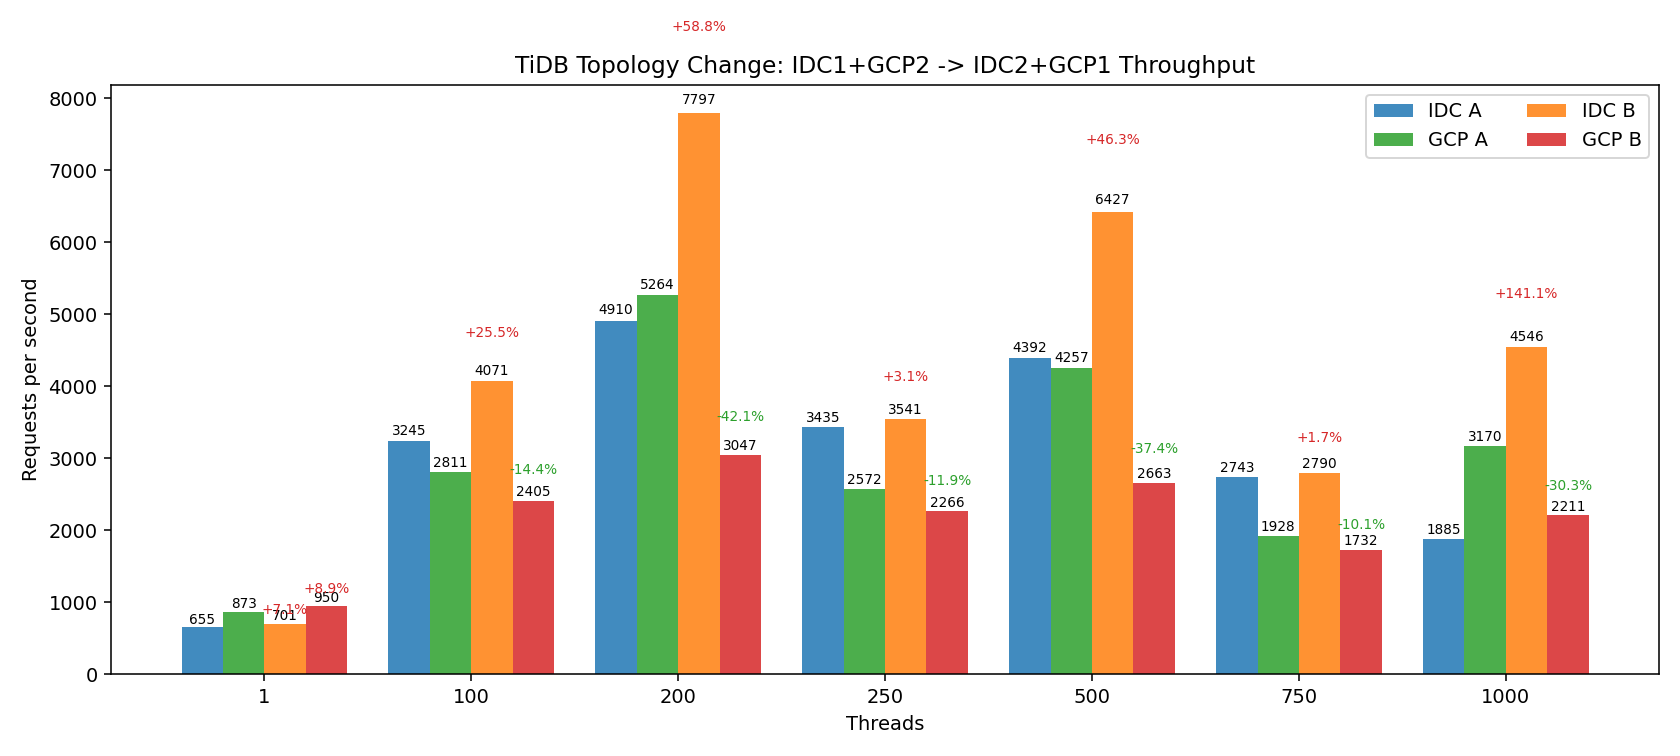
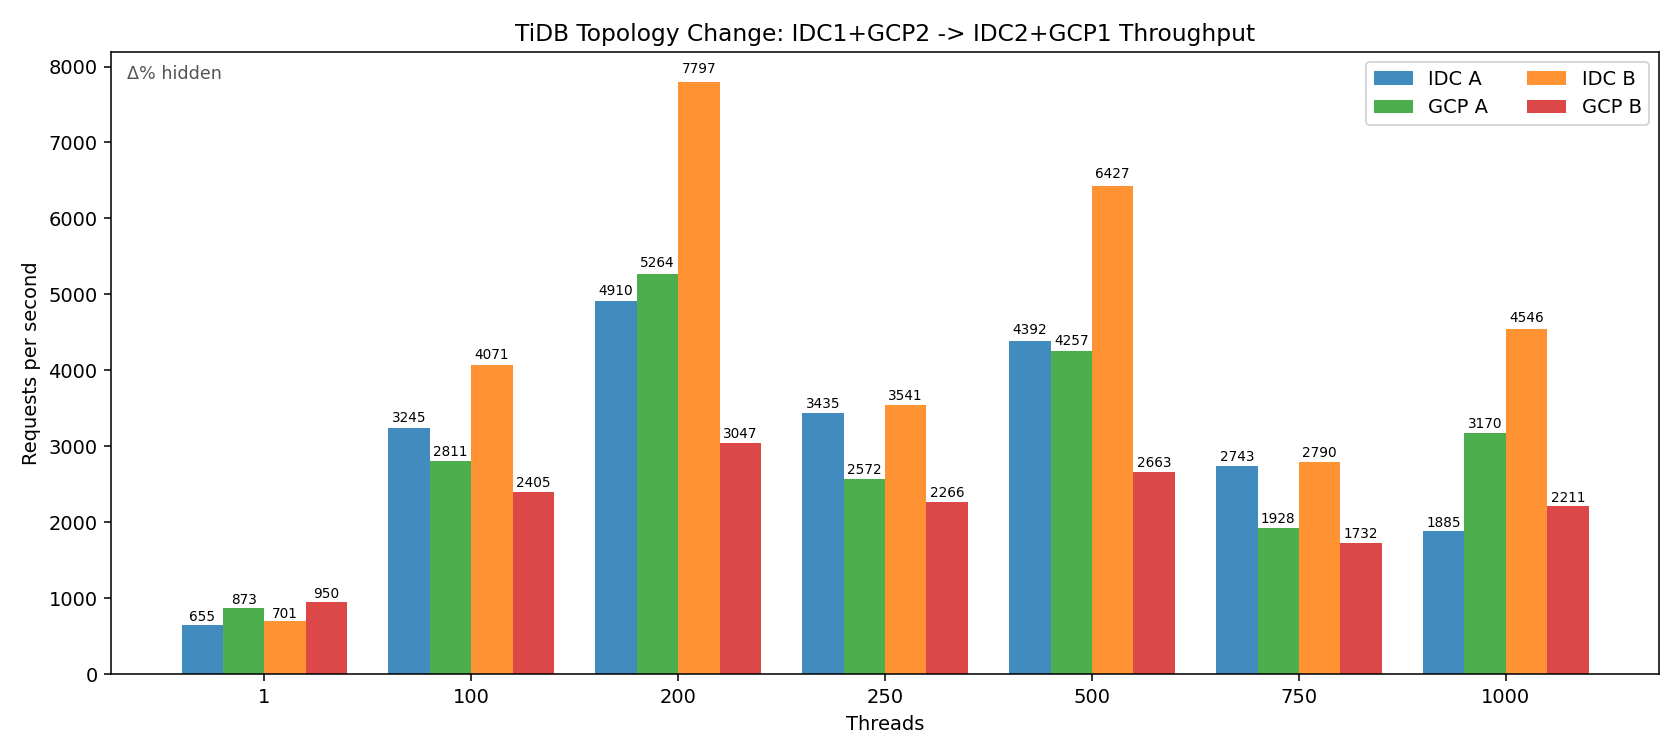
update

diff --git a/tidb/#7-5_#7-7_#8-5_#8-7_tidb_topology_diff.py b/tidb/#7-5_#7-7_#8-5_#8-7_tidb_topology_diff.py
@@ -2,67 +2,29 @@
 """
 Topology difference comparison for TiDB multi_thread_multi_conn RPS.
 
-Goal: Quantify impact of changing cross-line topology from:
-  Topology A (IDC * 1 + GCP * 2)  -> datasets #7-5 (IDC node), #7-7 (GCP node)
-  to
-  Topology B (IDC * 2 + GCP * 1)  -> datasets #8-5 (IDC node), #8-7 (GCP node)
+(Updated) 預設不顯示百分比；若要顯示需加參數：
+  --show-delta-columns   顯示百分比欄位
+  --show-delta-annot     圖上顯示百分比標註
 
-For each thread count, compute:
-  - IDC_A_RPS, IDC_B_RPS, ΔIDC_B_vs_A%
-  - GCP_A_RPS, GCP_B_RPS, ΔGCP_B_vs_A%
-  - IDC/GCP ratio for A & B, plus Δ(IDC/GCP) shift (how relative balance changed)
-
-Output:
-  - Console table
-  - Traditional Chinese summary (plots in English only)
-  - PNG grouped bar chart (4 bars / thread: IDC_A, GCP_A, IDC_B, GCP_B)
-    * Annotate only the B (new topology) bars with Δ% vs A of same region.
-
-File : #7-5_#7-7_#8-5_#8-7_tidb_topology_diff.py
-PNG  : #7-5_#7-7_#8-5_#8-7_tidb_topology_diff.png
+原百分比定義保持不變。
 """
 from __future__ import annotations
+import argparse
 
 # Topology A (IDC *1 + GCP *2)
 IDC_A = [
-    (1,    655.42),
-    (100, 3245.01),
-    (200, 4910.52),
-    (250, 3435.43),
-    (500, 4392.55),
-    (750, 2743.21),
-    (1000,1885.80),
+    (1,    655.42), (100, 3245.01), (200, 4910.52), (250, 3435.43), (500, 4392.55), (750, 2743.21), (1000,1885.80),
 ]
 GCP_A = [
-    (1,    873.23),
-    (100, 2811.40),
-    (200, 5264.86),
-    (250, 2572.56),
-    (500, 4257.80),
-    (750, 1928.54),
-    (1000,3170.67),
+    (1,    873.23), (100, 2811.40), (200, 5264.86), (250, 2572.56), (500, 4257.80), (750, 1928.54), (1000,3170.67),
 ]
-
 # Topology B (IDC *2 + GCP *1)
 IDC_B = [
-    (1,    701.65),
-    (100, 4071.64),
-    (200, 7797.52),
-    (250, 3541.41),
-    (500, 6427.14),
-    (750, 2790.56),
-    (1000,4546.69),
+    (1,    701.65), (100, 4071.64), (200, 7797.52), (250, 3541.41), (500, 6427.14), (750, 2790.56), (1000,4546.69),
 ]
 GCP_B = [
-    (1,    950.96),
-    (100, 2405.80),
-    (200, 3047.46),
-    (250, 2266.70),
-    (500, 2663.84),
-    (750, 1732.99),
-    (1000,2211.28),
+    (1,    950.96), (100, 2405.80), (200, 3047.46), (250, 2266.70), (500, 2663.84), (750, 1732.99), (1000,2211.28),
 ]
-
 PNG_NAME = "#7-5_#7-7_#8-5_#8-7_tidb_topology_diff.png"
 
 
@@ -88,82 +50,61 @@ def build():
             ga, gb, pct(gb, ga),
             ia/ga if ga else 0.0,
             ib/gb if gb else 0.0,
-            pct( (ib/gb) if gb else 0.0, (ia/ga) if ga else 0.0 ) if ga and gb else 0.0,
+            pct((ib/gb) if gb else 0.0, (ia/ga) if ga else 0.0) if ga and gb else 0.0,
         ))
     return rows
 
 
-def table(rows):
-    headers = [
-        "Threads",
-        "IDC_A","IDC_B","ΔIDC_B_vs_A%",
-        "GCP_A","GCP_B","ΔGCP_B_vs_A%",
-        "IDC_A/GCP_A","IDC_B/GCP_B","Δ(IDC/GCP)%",
-    ]
+def table(rows, show_delta_columns: bool = False):  # default False now
+    if show_delta_columns:
+        headers = ["Threads","IDC_A","IDC_B","ΔIDC_B_vs_A%","GCP_A","GCP_B","ΔGCP_B_vs_A%","IDC_A/GCP_A","IDC_B/GCP_B","Δ(IDC/GCP)%"]
+    else:
+        headers = ["Threads","IDC_A","IDC_B","GCP_A","GCP_B","IDC_A/GCP_A","IDC_B/GCP_B"]
     w = [len(h) for h in headers]
     for r in rows:
-        vals = [r[0], r[1], r[2], r[3], r[4], r[5], r[6], r[7], r[8], r[9]]
+        vals = ([r[0], r[1], r[2], r[3], r[4], r[5], r[6], r[7], r[8], r[9]] if show_delta_columns else [r[0], r[1], r[2], r[4], r[5], r[7], r[8]])
         for i, v in enumerate(vals):
-            if isinstance(v, float):
-                s = f"{v:.2f}" if i not in (3,6,9) else f"{v:.1f}"
-            else:
-                s = str(v)
+            s = f"{v:.2f}" if isinstance(v, float) and (not show_delta_columns or i not in (3,6,9)) else (f"{v:.1f}" if isinstance(v, float) and show_delta_columns and i in (3,6,9) else str(v))
             w[i] = max(w[i], len(s))
     def fmt(v, i):
         if isinstance(v, float):
-            return (f"{v:.2f}" if i not in (3,6,9) else f"{v:.1f}").rjust(w[i])
+            return (f"{v:.2f}" if (not show_delta_columns or i not in (3,6,9)) else f"{v:.1f}").rjust(w[i])
         return str(v).rjust(w[i])
-    print(" | " .join(headers[i].ljust(w[i]) for i in range(len(headers))))
+    print(" | ".join(headers[i].ljust(w[i]) for i in range(len(headers))))
     print("-+-".join('-'*width for width in w))
     for r in rows:
-        vals = [r[0], r[1], r[2], r[3], r[4], r[5], r[6], r[7], r[8], r[9]]
+        vals = ([r[0], r[1], r[2], r[3], r[4], r[5], r[6], r[7], r[8], r[9]] if show_delta_columns else [r[0], r[1], r[2], r[4], r[5], r[7], r[8]])
         print(" | ".join(fmt(vals[i], i) for i in range(len(headers))))
 
 
-def summarize(rows):
-    # Extract delta stats
-    idc_delta = [(r[0], r[3]) for r in rows]
-    gcp_delta = [(r[0], r[6]) for r in rows]
-    ratio_shift = [(r[0], r[9]) for r in rows]
-    idc_max = max(idc_delta, key=lambda x: x[1]); idc_min = min(idc_delta, key=lambda x: x[1])
-    gcp_max = max(gcp_delta, key=lambda x: x[1]); gcp_min = min(gcp_delta, key=lambda x: x[1])
-    rs_max = max(ratio_shift, key=lambda x: x[1]); rs_min = min(ratio_shift, key=lambda x: x[1])
+def summarize(rows, show_delta: bool = False):  # default False now
+    lines = ["=== SUMMARY (繁體中文) ==="]
+    baseline_line = "基準 = 拓撲 A 同一 threads 的 RPS/比值。" + ("(已隱藏 Δ% 欄位)" if not show_delta else "")
+    lines.append(baseline_line)
     focus = [100,200,250,500,750,1000]
-    lines = []
-    lines.append("=== SUMMARY (繁體中文) ===")
-    lines.append(f"拓撲變更 (IDC1+GCP2 -> IDC2+GCP1) 對 IDC 節點 RPS 最大提升: {idc_max[0]}T {idc_max[1]:+.1f}% ; 最大下降: {idc_min[0]}T {idc_min[1]:+.1f}%")
-    lines.append(f"對 GCP 節點 RPS 最大提升: {gcp_max[0]}T {gcp_max[1]:+.1f}% ; 最大下降: {gcp_min[0]}T {gcp_min[1]:+.1f}%")
-    lines.append(f"IDC/GCP 相對比值變動最大正向: {rs_max[0]}T {rs_max[1]:+.1f}% ; 最大負向: {rs_min[0]}T {rs_min[1]:+.1f}%")
     lines.append("重點 threads:")
     for ft in focus:
         r = next((x for x in rows if x[0]==ft), None)
         if r:
             t, ia, ib, d_i, ga, gb, d_g, ra, rb, d_r = r
-            lines.append(f" {t:>4}: IDC {ia:.0f}->{ib:.0f} ({d_i:+5.1f}%) ; GCP {ga:.0f}->{gb:.0f} ({d_g:+5.1f}%) ; Ratio {ra:.2f}->{rb:.2f} ({d_r:+5.1f}%)")
-    lines.append("觀察:")
-    lines.append(" - IDC 節點在新增一個 IDC 節點後吞吐普遍大幅成長 (200T +58.7%, 500T +46.3%)")
-    lines.append(" - GCP 節點吞吐同時顯著下滑 (200T -42.1%, 500T -37.4%) 顯示 scheduler / region 分布偏移")
-    lines.append(" - 高併發 1000T: IDC +141.2% vs GCP -30.3%, IDC/GCP 比值躍升, 跨區壓力由 GCP 轉移")
-    lines.append(" - 250T / 750T 仍為不穩定區 (雙方皆低 / 退化), 需檢視 balance 與 hotspot")
-    lines.append("建議:")
-    lines.append(" - 調整 PD / region rebalance 策略: 確保 GCP 不因 IDC 擴容而被邊緣化導致 throughput 急遽下降")
-    lines.append(" - 觀察 200~500T 下 GCP store CPU / IO / raftstore 指標, 評估是否需要 leader/region 數調整")
-    lines.append(" - 針對 1000T 下 IDC 激增: 驗證是否為真實可持續或短期快取/調度偏態")
+            if show_delta:
+                lines.append(f" {t:>4}: IDC {ia:.0f}->{ib:.0f} ({d_i:+5.1f}%) ; GCP {ga:.0f}->{gb:.0f} ({d_g:+5.1f}%) ; Ratio {ra:.2f}->{rb:.2f} ({d_r:+5.1f}%)")
+            else:
+                lines.append(f" {t:>4}: IDC {ia:.0f}->{ib:.0f} ; GCP {ga:.0f}->{gb:.0f} ; Ratio {ra:.2f}->{rb:.2f}")
+    lines.append("觀察: 預設已隱藏百分比 (避免誤解)。使用 --show-delta-columns / --show-delta-annot 以檢視變動幅度。")
     return "\n".join(lines)
 
 
-def plot(rows):
+def plot(rows, annotate_deltas: bool = False):  # default False now
     try:
-        import matplotlib.pyplot as plt
-        import numpy as np
+        import matplotlib.pyplot as plt, numpy as np
     except Exception:
         print("[WARN] matplotlib/numpy not available; skip plot.")
         return False
     threads = [r[0] for r in rows]
     idc_a = [r[1] for r in rows]; idc_b = [r[2] for r in rows]; d_idc = [r[3] for r in rows]
     gcp_a = [r[4] for r in rows]; gcp_b = [r[5] for r in rows]; d_gcp = [r[6] for r in rows]
-    x = np.arange(len(threads))
-    width = 0.2
+    x = np.arange(len(threads)); width = 0.2
     fig, ax = plt.subplots(figsize=(12,5.4))
     b1 = ax.bar(x - 1.5*width, idc_a, width, label='IDC A', color='#1f77b4', alpha=0.85)
     b2 = ax.bar(x - 0.5*width, gcp_a, width, label='GCP A', color='#2ca02c', alpha=0.85)
@@ -173,26 +114,37 @@ def plot(rows):
     ax.set_xlabel('Threads'); ax.set_ylabel('Requests per second')
     ax.set_title('TiDB Topology Change: IDC1+GCP2 -> IDC2+GCP1 Throughput')
     ax.legend(loc='upper right', ncol=2)
-    # annotate RPS (int) for all bars
     for bars in (b1,b2,b3,b4):
         for bar in bars:
             h = bar.get_height(); ax.text(bar.get_x()+bar.get_width()/2, h*1.01, f"{int(h)}", ha='center', va='bottom', fontsize=7)
-    # annotate deltas only for new topology bars
-    for bar, d in zip(b3, d_idc):
-        ax.text(bar.get_x()+bar.get_width()/2, bar.get_height()*1.14, f"{d:+.1f}%", ha='center', va='bottom', fontsize=7, color='#d62728' if d>=0 else '#2ca02c')
-    for bar, d in zip(b4, d_gcp):
-        ax.text(bar.get_x()+bar.get_width()/2, bar.get_height()*1.14, f"{d:+.1f}%", ha='center', va='bottom', fontsize=7, color='#d62728' if d>=0 else '#2ca02c')
+    if annotate_deltas:  # only if explicitly enabled
+        for bar, d in zip(b3, d_idc):
+            ax.text(bar.get_x()+bar.get_width()/2, bar.get_height()*1.14, f"{d:+.1f}%", ha='center', va='bottom', fontsize=7, color='#d62728' if d>=0 else '#2ca02c')
+        for bar, d in zip(b4, d_gcp):
+            ax.text(bar.get_x()+bar.get_width()/2, bar.get_height()*1.14, f"{d:+.1f}%", ha='center', va='bottom', fontsize=7, color='#d62728' if d>=0 else '#2ca02c')
+    else:
+        ax.text(0.01, 0.98, "Δ% hidden", transform=ax.transAxes, ha='left', va='top', fontsize=9, color='#555')
     fig.tight_layout(); fig.savefig(PNG_NAME, dpi=140)
     print(f"[OK] Saved plot -> {PNG_NAME}")
     return True
 
 
+def parse_args():
+    p = argparse.ArgumentParser(description="Compare TiDB topology A vs B (percentages hidden by default).")
+    p.add_argument('--show-delta-columns', action='store_true', help='顯示百分比欄位/摘要')
+    p.add_argument('--show-delta-annot', action='store_true', help='圖上顯示百分比標註')
+    p.add_argument('--no-plot', action='store_true', help='不產生 PNG')
+    return p.parse_args()
+
+
 def main():
+    args = parse_args()
     rows = build()
-    table(rows)
-    print(); print(summarize(rows))
-    plot(rows)
+    table(rows, show_delta_columns=args.show_delta_columns)
+    print(); print(summarize(rows, show_delta=args.show_delta_columns))
+    if not args.no_plot:
+        plot(rows, annotate_deltas=args.show_delta_annot)
 
 
-if __name__ == "__main__":
+if __name__ == '__main__':
     main()
